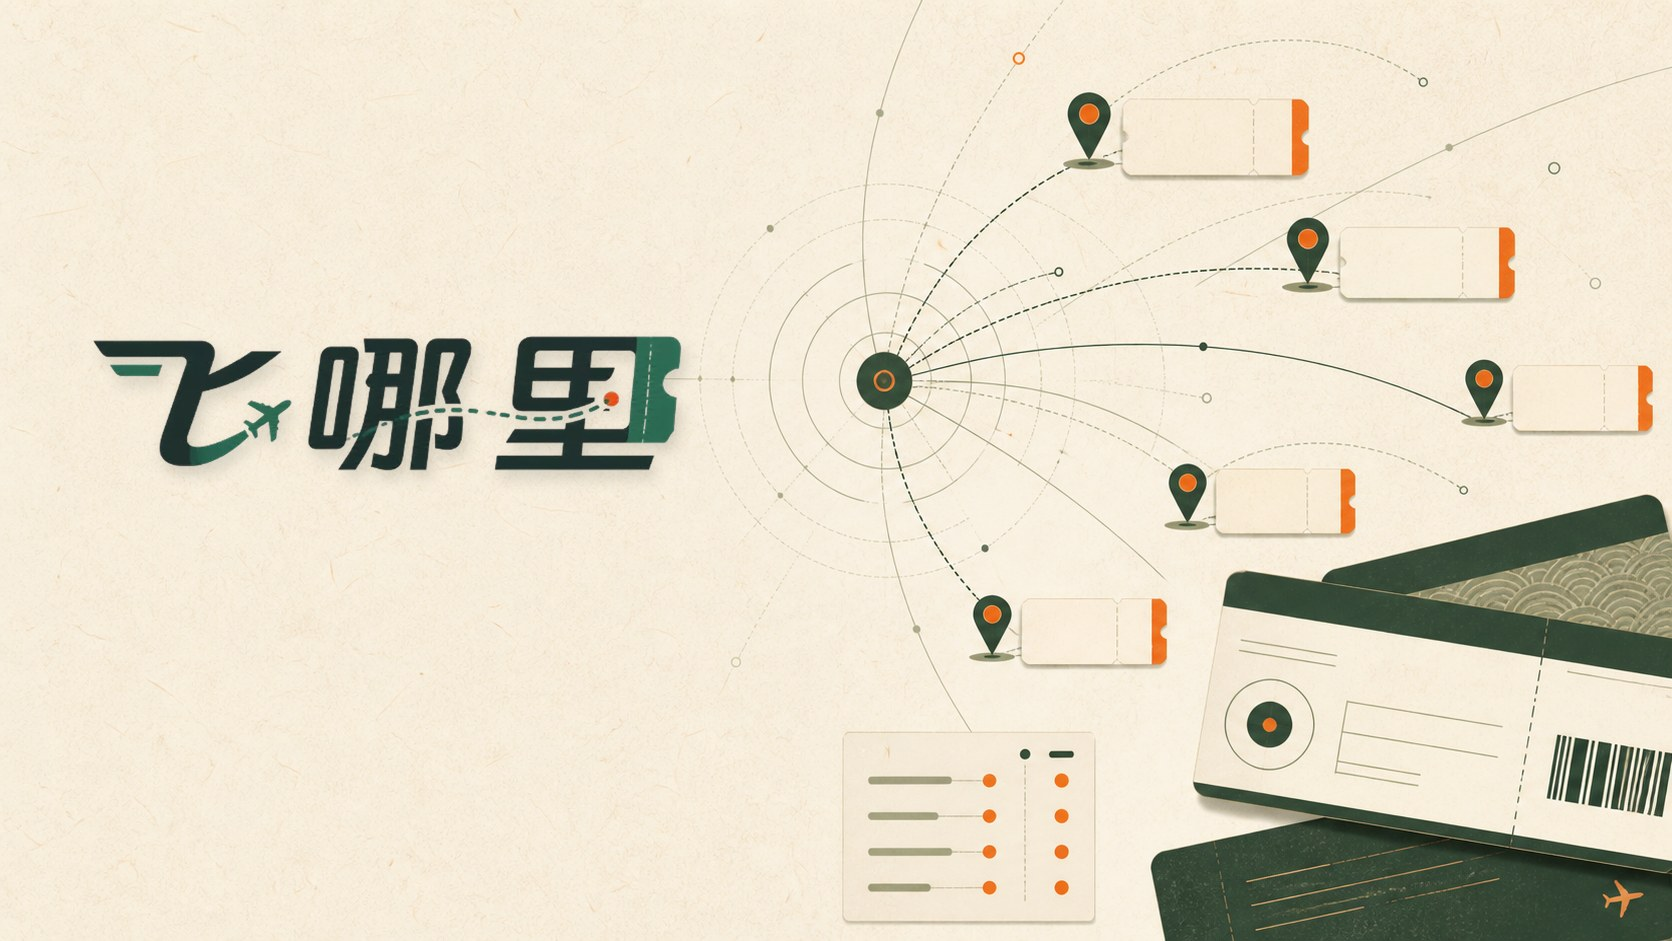
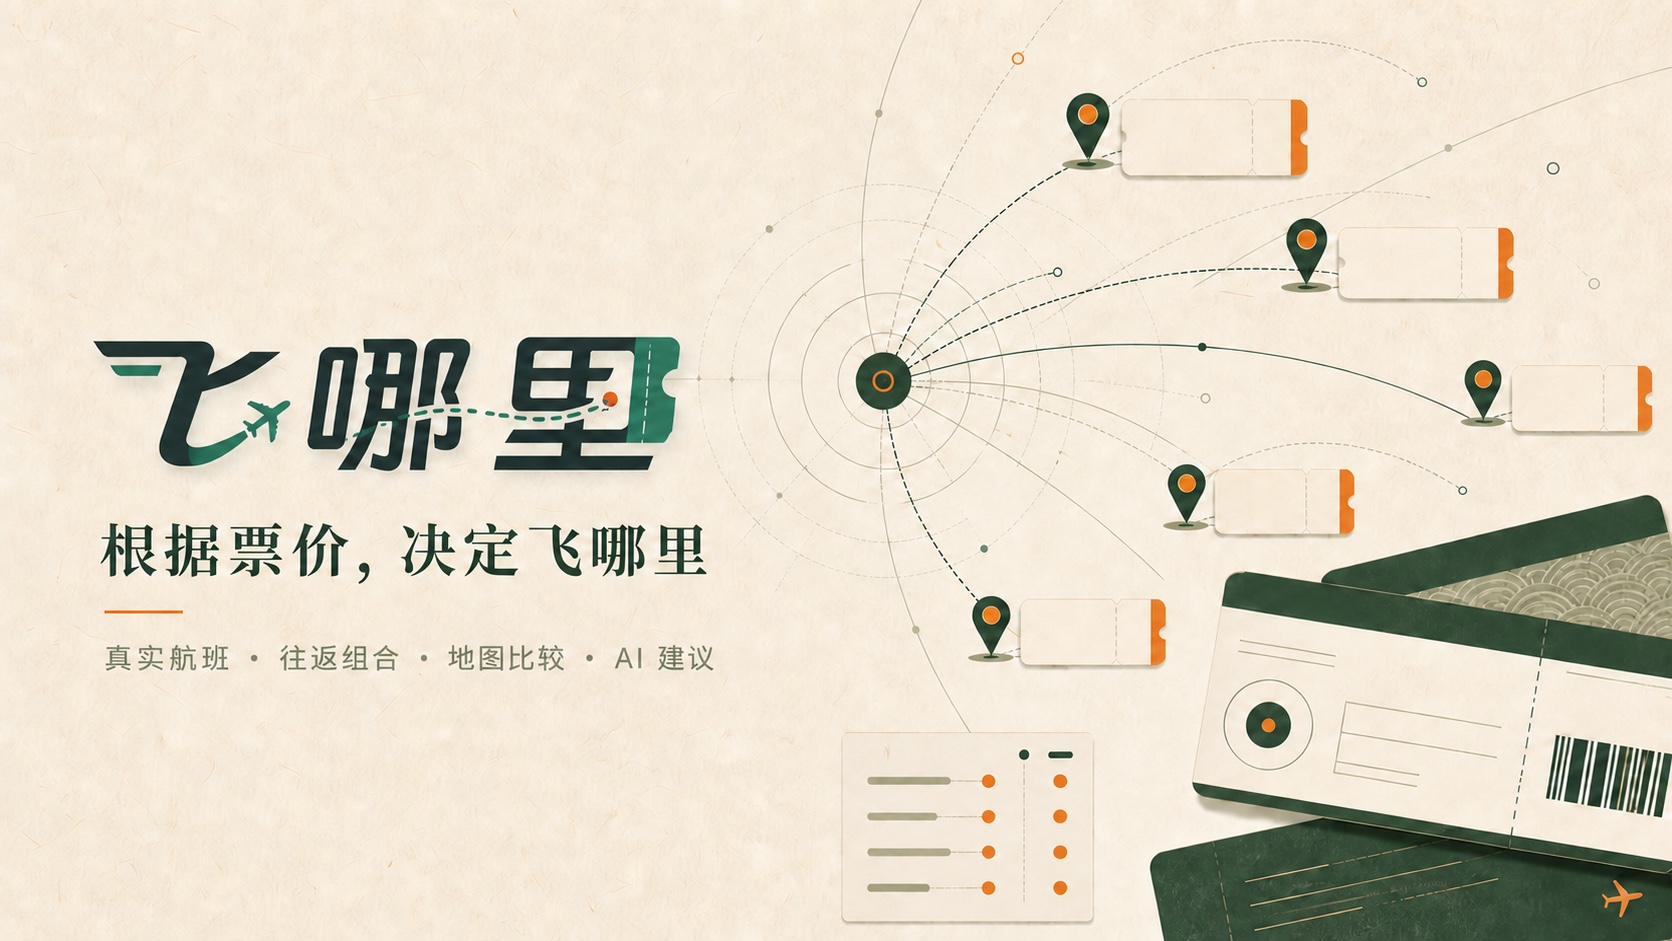
improve open source cover messaging

diff --git a/OPEN_SOURCE_AUDIT.md b/OPEN_SOURCE_AUDIT.md
@@ -30,7 +30,7 @@
 - **P2｜发布文件混杂**：忽略本地 Agent、Playwright、截图、Logo 源文件和调试费用文件。
 - **P1｜缺少开源许可证**：采用 MIT License，允许使用、修改与再分发，并保留版权和免责条款。
 - **P2｜README 信息过期**：更新真实仓库地址、AI 建议行为、航程费用公式、隐私边界与第三方声明。
-- **P2｜缺少仓库视觉识别**：增加 16:9 项目封面，使用品牌美术字、航线雷达与票券意象，压缩后约 209 KB。
+- **P2｜缺少仓库视觉识别**：增加 16:9 项目封面，使用品牌美术字、产品标语、航线雷达与票券意象，压缩后约 377 KB。
 - **P1｜封面地图合规风险**：移除 AI 生成的中国地图轮廓，避免不准确国界表达；封面不再包含任何国土或岛屿图形。
 - **P2｜CLI 路径暴露**：设置接口不再返回本机 CLI 的完整路径，避免不必要地泄露系统用户名和目录结构。
 
